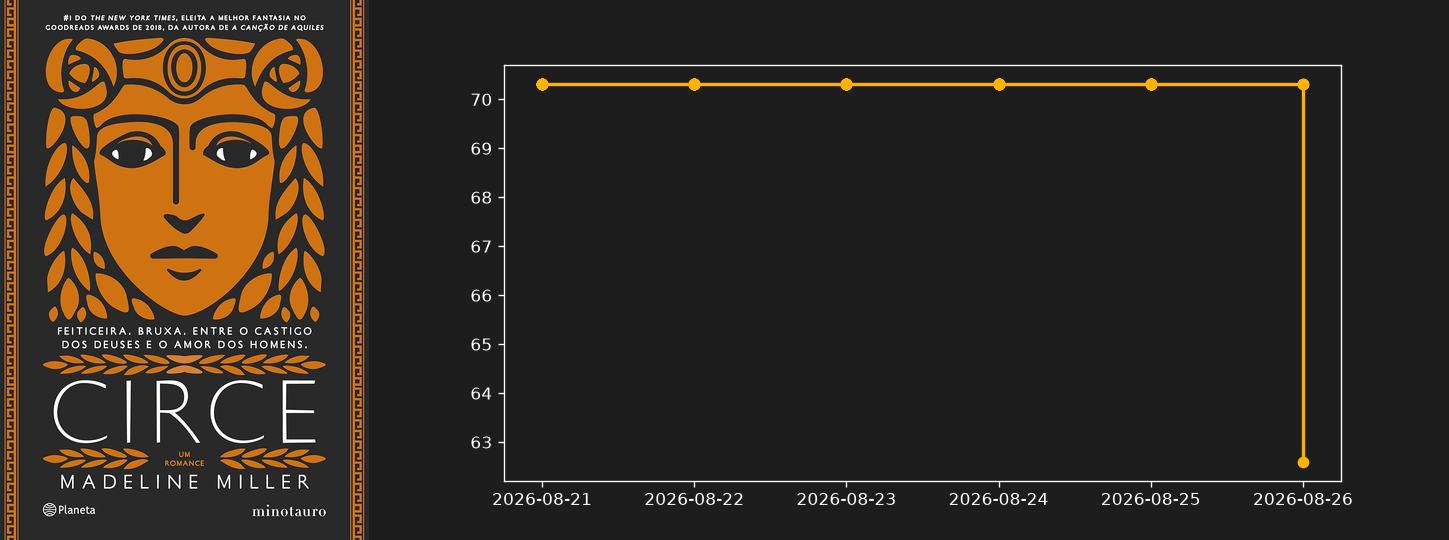
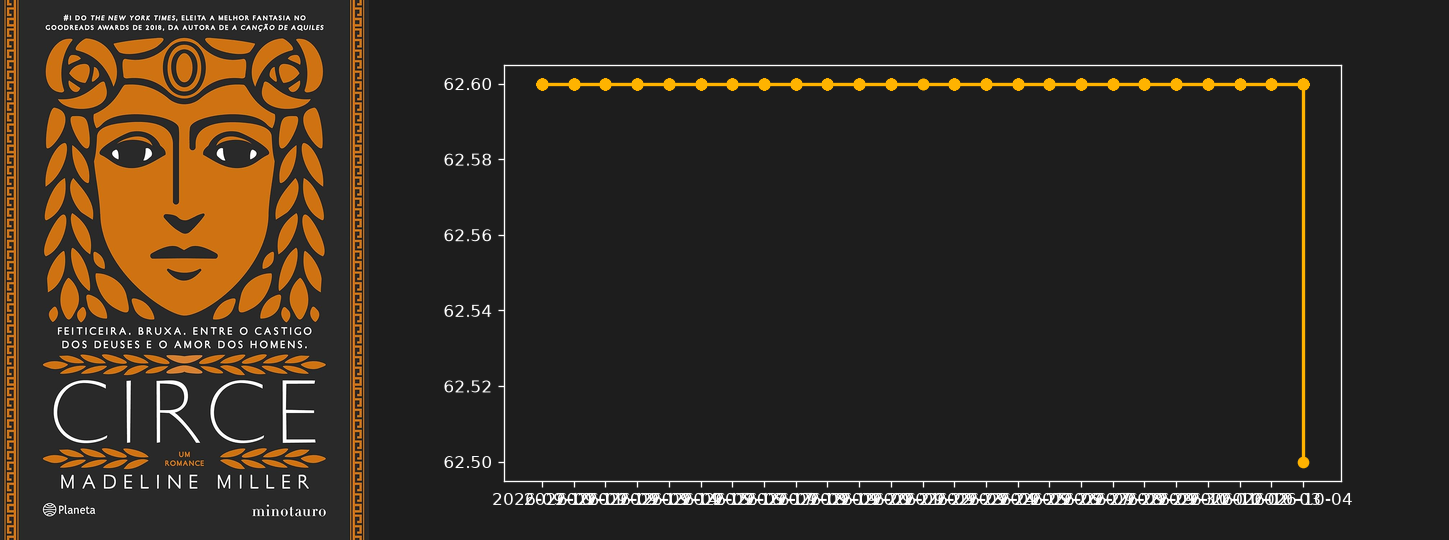
🤖 Bot Mac: Atualizando ofertas [skip ci]

diff --git a/index.html b/index.html
@@ -48,7 +48,7 @@
             <div class="flex flex-col mt-auto mb-5">
                 <div class="flex items-baseline gap-2">
                     <span class="text-2xl font-bold text-white tracking-tight">R$ 279,90</span>
-                    <span class="text-sm text-gray-500 line-through">R$ 278,49</span>
+                    <span class="text-sm text-gray-500 line-through">R$ 278,50</span>
                 </div>
             </div>
             <a href="https://link.amazon/B0bxqDHXJ" target="_blank" rel="nofollow noopener" class="w-full flex items-center justify-center gap-2 py-2.5 rounded-xl bg-white/5 hover:bg-bardo-gold hover:text-bardo-dark text-sm font-bold text-gray-200 transition-all">Comprar na Amazon</a>
@@ -68,7 +68,7 @@
             <div class="flex flex-col mt-auto mb-5">
                 <div class="flex items-baseline gap-2">
                     <span class="text-2xl font-bold text-white tracking-tight">R$ 60,91</span>
-                    <span class="text-sm text-gray-500 line-through">R$ 63,20</span>
+                    <span class="text-sm text-gray-500 line-through">R$ 63,19</span>
                 </div>
             </div>
             <a href="https://link.amazon/B05C027gt" target="_blank" rel="nofollow noopener" class="w-full flex items-center justify-center gap-2 py-2.5 rounded-xl bg-white/5 hover:bg-bardo-gold hover:text-bardo-dark text-sm font-bold text-gray-200 transition-all">Comprar na Amazon</a>
@@ -135,7 +135,7 @@
         </div>
     </article>
     <article class="relative flex flex-col bg-surface rounded-2xl border border-white/5 overflow-hidden hover:border-bardo-gold/40 transition-all duration-300 group shadow-lg">
-        
+        <div class="absolute top-3 left-3 z-10"><span class="px-2.5 py-1 text-[11px] font-bold uppercase tracking-wider text-emerald-400 bg-emerald-500/10 border border-emerald-500/20 rounded-full backdrop-blur-md shadow-lg">Abaixo da Média</span></div>
         <!-- Vitrine com Efeito Hover Swap -->
         <div class="relative h-64 w-full bg-gradient-to-b from-white/[0.03] to-transparent border-b border-white/5 overflow-hidden">
             <!-- Imagem 1: Capa (Soma ao Hover) -->
@@ -147,7 +147,7 @@
             <h3 class="text-base font-semibold text-gray-100 leading-snug line-clamp-2 mb-4 group-hover:text-bardo-gold transition-colors">A Ascensão do Dragão</h3>
             <div class="flex flex-col mt-auto mb-5">
                 <div class="flex items-baseline gap-2">
-                    <span class="text-2xl font-bold text-white tracking-tight">R$ 151,92</span>
+                    <span class="text-2xl font-bold text-white tracking-tight">R$ 147,10</span>
                     <span class="text-sm text-gray-500 line-through">R$ 147,46</span>
                 </div>
             </div>
@@ -168,7 +168,7 @@
             <div class="flex flex-col mt-auto mb-5">
                 <div class="flex items-baseline gap-2">
                     <span class="text-2xl font-bold text-white tracking-tight">R$ 126,25</span>
-                    <span class="text-sm text-gray-500 line-through">R$ 132,33</span>
+                    <span class="text-sm text-gray-500 line-through">R$ 132,32</span>
                 </div>
             </div>
             <a href="https://link.amazon/B0bOFsgQ9" target="_blank" rel="nofollow noopener" class="w-full flex items-center justify-center gap-2 py-2.5 rounded-xl bg-white/5 hover:bg-bardo-gold hover:text-bardo-dark text-sm font-bold text-gray-200 transition-all">Comprar na Amazon</a>
@@ -188,7 +188,7 @@
             <div class="flex flex-col mt-auto mb-5">
                 <div class="flex items-baseline gap-2">
                     <span class="text-2xl font-bold text-white tracking-tight">R$ 207,20</span>
-                    <span class="text-sm text-gray-500 line-through">R$ 220,70</span>
+                    <span class="text-sm text-gray-500 line-through">R$ 220,67</span>
                 </div>
             </div>
             <a href="https://link.amazon/B0cOS4omj" target="_blank" rel="nofollow noopener" class="w-full flex items-center justify-center gap-2 py-2.5 rounded-xl bg-white/5 hover:bg-bardo-gold hover:text-bardo-dark text-sm font-bold text-gray-200 transition-all">Comprar na Amazon</a>
@@ -228,7 +228,7 @@
             <div class="flex flex-col mt-auto mb-5">
                 <div class="flex items-baseline gap-2">
                     <span class="text-2xl font-bold text-white tracking-tight">R$ 81,69</span>
-                    <span class="text-sm text-gray-500 line-through">R$ 82,86</span>
+                    <span class="text-sm text-gray-500 line-through">R$ 82,85</span>
                 </div>
             </div>
             <a href="https://link.amazon/B01CIGwaZ" target="_blank" rel="nofollow noopener" class="w-full flex items-center justify-center gap-2 py-2.5 rounded-xl bg-white/5 hover:bg-bardo-gold hover:text-bardo-dark text-sm font-bold text-gray-200 transition-all">Comprar na Amazon</a>
@@ -248,7 +248,7 @@
             <div class="flex flex-col mt-auto mb-5">
                 <div class="flex items-baseline gap-2">
                     <span class="text-2xl font-bold text-white tracking-tight">R$ 414,48</span>
-                    <span class="text-sm text-gray-500 line-through">R$ 424,58</span>
+                    <span class="text-sm text-gray-500 line-through">R$ 424,55</span>
                 </div>
             </div>
             <a href="https://link.amazon/B0czAwuOp" target="_blank" rel="nofollow noopener" class="w-full flex items-center justify-center gap-2 py-2.5 rounded-xl bg-white/5 hover:bg-bardo-gold hover:text-bardo-dark text-sm font-bold text-gray-200 transition-all">Comprar na Amazon</a>
@@ -287,8 +287,8 @@
             <h3 class="text-base font-semibold text-gray-100 leading-snug line-clamp-2 mb-4 group-hover:text-bardo-gold transition-colors">Mistborn: O Império Final: Livro 1 de Mistborn</h3>
             <div class="flex flex-col mt-auto mb-5">
                 <div class="flex items-baseline gap-2">
-                    <span class="text-2xl font-bold text-white tracking-tight">R$ 87,62</span>
-                    <span class="text-sm text-gray-500 line-through">R$ 83,26</span>
+                    <span class="text-2xl font-bold text-white tracking-tight">R$ 104,75</span>
+                    <span class="text-sm text-gray-500 line-through">R$ 83,31</span>
                 </div>
             </div>
             <a href="https://link.amazon/B0bJ5jTSU" target="_blank" rel="nofollow noopener" class="w-full flex items-center justify-center gap-2 py-2.5 rounded-xl bg-white/5 hover:bg-bardo-gold hover:text-bardo-dark text-sm font-bold text-gray-200 transition-all">Comprar na Amazon</a>
@@ -348,7 +348,7 @@
             <div class="flex flex-col mt-auto mb-5">
                 <div class="flex items-baseline gap-2">
                     <span class="text-2xl font-bold text-white tracking-tight">R$ 59,70</span>
-                    <span class="text-sm text-gray-500 line-through">R$ 60,47</span>
+                    <span class="text-sm text-gray-500 line-through">R$ 60,46</span>
                 </div>
             </div>
             <a href="https://link.amazon/B00tEF0jN" target="_blank" rel="nofollow noopener" class="w-full flex items-center justify-center gap-2 py-2.5 rounded-xl bg-white/5 hover:bg-bardo-gold hover:text-bardo-dark text-sm font-bold text-gray-200 transition-all">Comprar na Amazon</a>
@@ -368,7 +368,7 @@
             <div class="flex flex-col mt-auto mb-5">
                 <div class="flex items-baseline gap-2">
                     <span class="text-2xl font-bold text-white tracking-tight">R$ 132,90</span>
-                    <span class="text-sm text-gray-500 line-through">R$ 109,30</span>
+                    <span class="text-sm text-gray-500 line-through">R$ 109,36</span>
                 </div>
             </div>
             <a href="https://link.amazon/B0g8PJdyP" target="_blank" rel="nofollow noopener" class="w-full flex items-center justify-center gap-2 py-2.5 rounded-xl bg-white/5 hover:bg-bardo-gold hover:text-bardo-dark text-sm font-bold text-gray-200 transition-all">Comprar na Amazon</a>
@@ -408,7 +408,7 @@
             <div class="flex flex-col mt-auto mb-5">
                 <div class="flex items-baseline gap-2">
                     <span class="text-2xl font-bold text-white tracking-tight">R$ 126,58</span>
-                    <span class="text-sm text-gray-500 line-through">R$ 128,97</span>
+                    <span class="text-sm text-gray-500 line-through">R$ 128,96</span>
                 </div>
             </div>
             <a href="https://link.amazon/B0cBFS3o1" target="_blank" rel="nofollow noopener" class="w-full flex items-center justify-center gap-2 py-2.5 rounded-xl bg-white/5 hover:bg-bardo-gold hover:text-bardo-dark text-sm font-bold text-gray-200 transition-all">Comprar na Amazon</a>
@@ -428,7 +428,7 @@
             <div class="flex flex-col mt-auto mb-5">
                 <div class="flex items-baseline gap-2">
                     <span class="text-2xl font-bold text-white tracking-tight">R$ 139,90</span>
-                    <span class="text-sm text-gray-500 line-through">R$ 143,75</span>
+                    <span class="text-sm text-gray-500 line-through">R$ 143,74</span>
                 </div>
             </div>
             <a href="https://link.amazon/B0f81O992" target="_blank" rel="nofollow noopener" class="w-full flex items-center justify-center gap-2 py-2.5 rounded-xl bg-white/5 hover:bg-bardo-gold hover:text-bardo-dark text-sm font-bold text-gray-200 transition-all">Comprar na Amazon</a>
@@ -468,7 +468,7 @@
             <div class="flex flex-col mt-auto mb-5">
                 <div class="flex items-baseline gap-2">
                     <span class="text-2xl font-bold text-white tracking-tight">R$ 54,45</span>
-                    <span class="text-sm text-gray-500 line-through">R$ 53,44</span>
+                    <span class="text-sm text-gray-500 line-through">R$ 53,45</span>
                 </div>
             </div>
             <a href="https://link.amazon/B0h9jyezR" target="_blank" rel="nofollow noopener" class="w-full flex items-center justify-center gap-2 py-2.5 rounded-xl bg-white/5 hover:bg-bardo-gold hover:text-bardo-dark text-sm font-bold text-gray-200 transition-all">Comprar na Amazon</a>
@@ -508,7 +508,7 @@
             <div class="flex flex-col mt-auto mb-5">
                 <div class="flex items-baseline gap-2">
                     <span class="text-2xl font-bold text-white tracking-tight">R$ 75,23</span>
-                    <span class="text-sm text-gray-500 line-through">R$ 76,88</span>
+                    <span class="text-sm text-gray-500 line-through">R$ 76,87</span>
                 </div>
             </div>
             <a href="https://link.amazon/B0aqYDLFU" target="_blank" rel="nofollow noopener" class="w-full flex items-center justify-center gap-2 py-2.5 rounded-xl bg-white/5 hover:bg-bardo-gold hover:text-bardo-dark text-sm font-bold text-gray-200 transition-all">Comprar na Amazon</a>
@@ -588,7 +588,7 @@
             <div class="flex flex-col mt-auto mb-5">
                 <div class="flex items-baseline gap-2">
                     <span class="text-2xl font-bold text-white tracking-tight">R$ 210,79</span>
-                    <span class="text-sm text-gray-500 line-through">R$ 259,99</span>
+                    <span class="text-sm text-gray-500 line-through">R$ 259,87</span>
                 </div>
             </div>
             <a href="https://link.amazon/B046QvncM" target="_blank" rel="nofollow noopener" class="w-full flex items-center justify-center gap-2 py-2.5 rounded-xl bg-white/5 hover:bg-bardo-gold hover:text-bardo-dark text-sm font-bold text-gray-200 transition-all">Comprar na Amazon</a>
@@ -608,7 +608,7 @@
             <div class="flex flex-col mt-auto mb-5">
                 <div class="flex items-baseline gap-2">
                     <span class="text-2xl font-bold text-white tracking-tight">R$ 192,75</span>
-                    <span class="text-sm text-gray-500 line-through">R$ 184,06</span>
+                    <span class="text-sm text-gray-500 line-through">R$ 184,08</span>
                 </div>
             </div>
             <a href="https://link.amazon/B037mPoB1" target="_blank" rel="nofollow noopener" class="w-full flex items-center justify-center gap-2 py-2.5 rounded-xl bg-white/5 hover:bg-bardo-gold hover:text-bardo-dark text-sm font-bold text-gray-200 transition-all">Comprar na Amazon</a>
@@ -668,7 +668,7 @@
             <div class="flex flex-col mt-auto mb-5">
                 <div class="flex items-baseline gap-2">
                     <span class="text-2xl font-bold text-white tracking-tight">R$ 59,25</span>
-                    <span class="text-sm text-gray-500 line-through">R$ 52,48</span>
+                    <span class="text-sm text-gray-500 line-through">R$ 52,49</span>
                 </div>
             </div>
             <a href="https://link.amazon/B0gViTEpL" target="_blank" rel="nofollow noopener" class="w-full flex items-center justify-center gap-2 py-2.5 rounded-xl bg-white/5 hover:bg-bardo-gold hover:text-bardo-dark text-sm font-bold text-gray-200 transition-all">Comprar na Amazon</a>
@@ -688,7 +688,7 @@
             <div class="flex flex-col mt-auto mb-5">
                 <div class="flex items-baseline gap-2">
                     <span class="text-2xl font-bold text-white tracking-tight">R$ 59,75</span>
-                    <span class="text-sm text-gray-500 line-through">R$ 51,87</span>
+                    <span class="text-sm text-gray-500 line-through">R$ 51,89</span>
                 </div>
             </div>
             <a href="https://link.amazon/B08nADndv" target="_blank" rel="nofollow noopener" class="w-full flex items-center justify-center gap-2 py-2.5 rounded-xl bg-white/5 hover:bg-bardo-gold hover:text-bardo-dark text-sm font-bold text-gray-200 transition-all">Comprar na Amazon</a>
@@ -808,7 +808,7 @@
             <div class="flex flex-col mt-auto mb-5">
                 <div class="flex items-baseline gap-2">
                     <span class="text-2xl font-bold text-white tracking-tight">R$ 131,49</span>
-                    <span class="text-sm text-gray-500 line-through">R$ 156,18</span>
+                    <span class="text-sm text-gray-500 line-through">R$ 156,12</span>
                 </div>
             </div>
             <a href="https://link.amazon/B02R68ory" target="_blank" rel="nofollow noopener" class="w-full flex items-center justify-center gap-2 py-2.5 rounded-xl bg-white/5 hover:bg-bardo-gold hover:text-bardo-dark text-sm font-bold text-gray-200 transition-all">Comprar na Amazon</a>
@@ -848,7 +848,7 @@
             <div class="flex flex-col mt-auto mb-5">
                 <div class="flex items-baseline gap-2">
                     <span class="text-2xl font-bold text-white tracking-tight">R$ 473,33</span>
-                    <span class="text-sm text-gray-500 line-through">R$ 422,65</span>
+                    <span class="text-sm text-gray-500 line-through">R$ 422,77</span>
                 </div>
             </div>
             <a href="https://link.amazon/B04zvHdbV" target="_blank" rel="nofollow noopener" class="w-full flex items-center justify-center gap-2 py-2.5 rounded-xl bg-white/5 hover:bg-bardo-gold hover:text-bardo-dark text-sm font-bold text-gray-200 transition-all">Comprar na Amazon</a>
@@ -868,7 +868,7 @@
             <div class="flex flex-col mt-auto mb-5">
                 <div class="flex items-baseline gap-2">
                     <span class="text-2xl font-bold text-white tracking-tight">R$ 100,98</span>
-                    <span class="text-sm text-gray-500 line-through">R$ 88,67</span>
+                    <span class="text-sm text-gray-500 line-through">R$ 88,70</span>
                 </div>
             </div>
             <a href="https://link.amazon/B0fzjvtp7" target="_blank" rel="nofollow noopener" class="w-full flex items-center justify-center gap-2 py-2.5 rounded-xl bg-white/5 hover:bg-bardo-gold hover:text-bardo-dark text-sm font-bold text-gray-200 transition-all">Comprar na Amazon</a>
@@ -915,7 +915,7 @@
         </div>
     </article>
     <article class="relative flex flex-col bg-surface rounded-2xl border border-white/5 overflow-hidden hover:border-bardo-gold/40 transition-all duration-300 group shadow-lg">
-        
+        <div class="absolute top-3 left-3 z-10"><span class="px-2.5 py-1 text-[11px] font-bold uppercase tracking-wider text-emerald-400 bg-emerald-500/10 border border-emerald-500/20 rounded-full backdrop-blur-md shadow-lg">Abaixo da Média</span></div>
         <!-- Vitrine com Efeito Hover Swap -->
         <div class="relative h-64 w-full bg-gradient-to-b from-white/[0.03] to-transparent border-b border-white/5 overflow-hidden">
             <!-- Imagem 1: Capa (Soma ao Hover) -->
@@ -927,7 +927,7 @@
             <h3 class="text-base font-semibold text-gray-100 leading-snug line-clamp-2 mb-4 group-hover:text-bardo-gold transition-colors">Circe</h3>
             <div class="flex flex-col mt-auto mb-5">
                 <div class="flex items-baseline gap-2">
-                    <span class="text-2xl font-bold text-white tracking-tight">R$ 62,60</span>
+                    <span class="text-2xl font-bold text-white tracking-tight">R$ 62,50</span>
                     <span class="text-sm text-gray-500 line-through">R$ 62,60</span>
                 </div>
             </div>
@@ -948,7 +948,7 @@
             <div class="flex flex-col mt-auto mb-5">
                 <div class="flex items-baseline gap-2">
                     <span class="text-2xl font-bold text-white tracking-tight">R$ 153,09</span>
-                    <span class="text-sm text-gray-500 line-through">R$ 160,28</span>
+                    <span class="text-sm text-gray-500 line-through">R$ 160,26</span>
                 </div>
             </div>
             <a href="https://link.amazon/B0fmYiyYt" target="_blank" rel="nofollow noopener" class="w-full flex items-center justify-center gap-2 py-2.5 rounded-xl bg-white/5 hover:bg-bardo-gold hover:text-bardo-dark text-sm font-bold text-gray-200 transition-all">Comprar na Amazon</a>
@@ -968,7 +968,7 @@
             <div class="flex flex-col mt-auto mb-5">
                 <div class="flex items-baseline gap-2">
                     <span class="text-2xl font-bold text-white tracking-tight">R$ 212,70</span>
-                    <span class="text-sm text-gray-500 line-through">R$ 211,55</span>
+                    <span class="text-sm text-gray-500 line-through">R$ 211,56</span>
                 </div>
             </div>
             <a href="https://link.amazon/B00nzuqe1" target="_blank" rel="nofollow noopener" class="w-full flex items-center justify-center gap-2 py-2.5 rounded-xl bg-white/5 hover:bg-bardo-gold hover:text-bardo-dark text-sm font-bold text-gray-200 transition-all">Comprar na Amazon</a>
@@ -988,7 +988,7 @@
             <div class="flex flex-col mt-auto mb-5">
                 <div class="flex items-baseline gap-2">
                     <span class="text-2xl font-bold text-white tracking-tight">R$ 320,94</span>
-                    <span class="text-sm text-gray-500 line-through">R$ 339,75</span>
+                    <span class="text-sm text-gray-500 line-through">R$ 339,71</span>
                 </div>
             </div>
             <a href="https://link.amazon/B02mXXqIa" target="_blank" rel="nofollow noopener" class="w-full flex items-center justify-center gap-2 py-2.5 rounded-xl bg-white/5 hover:bg-bardo-gold hover:text-bardo-dark text-sm font-bold text-gray-200 transition-all">Comprar na Amazon</a>
@@ -1008,7 +1008,7 @@
             <div class="flex flex-col mt-auto mb-5">
                 <div class="flex items-baseline gap-2">
                     <span class="text-2xl font-bold text-white tracking-tight">R$ 218,40</span>
-                    <span class="text-sm text-gray-500 line-through">R$ 222,38</span>
+                    <span class="text-sm text-gray-500 line-through">R$ 222,37</span>
                 </div>
             </div>
             <a href="https://link.amazon/B01sIcUyP" target="_blank" rel="nofollow noopener" class="w-full flex items-center justify-center gap-2 py-2.5 rounded-xl bg-white/5 hover:bg-bardo-gold hover:text-bardo-dark text-sm font-bold text-gray-200 transition-all">Comprar na Amazon</a>
